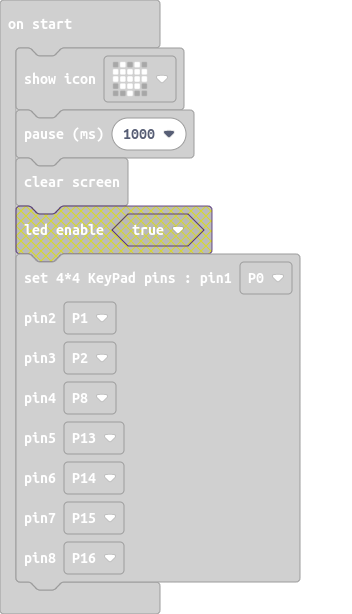
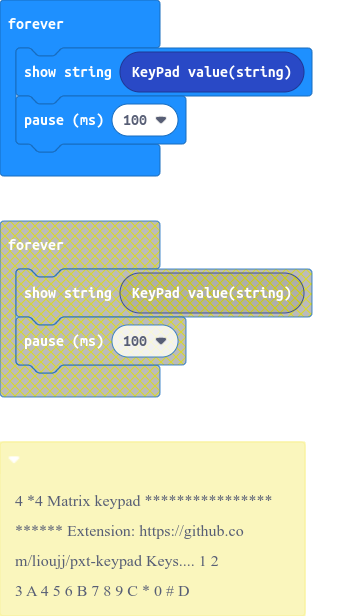
add comment

diff --git a/main.ts b/main.ts
@@ -1,3 +1,22 @@
+/**
+ * 4 *4 Matrix keypad
+ * 
+ * **********************
+ * 
+ * Extension:
+ * 
+ * https://github.com/lioujj/pxt-keypad
+ * 
+ * Keys....
+ * 
+ * 1 2 3 A
+ * 
+ * 4 5 6 B
+ * 
+ * 7 8 9 C
+ * 
+ * * 0 # D
+ */
 basic.showIcon(IconNames.Heart)
 basic.pause(1000)
 basic.clearScreen()

diff --git a/main.py b/main.py
@@ -1,0 +1,16 @@
+basic.show_icon(IconNames.HEART)
+basic.pause(1000)
+basic.clear_screen()
+keypad.set_key_pad4(DigitalPin.P0,
+    DigitalPin.P1,
+    DigitalPin.P2,
+    DigitalPin.P8,
+    DigitalPin.P13,
+    DigitalPin.P14,
+    DigitalPin.P15,
+    DigitalPin.P16)
+
+def on_forever():
+    basic.show_string(keypad.get_key_string())
+    basic.pause(100)
+basic.forever(on_forever)
